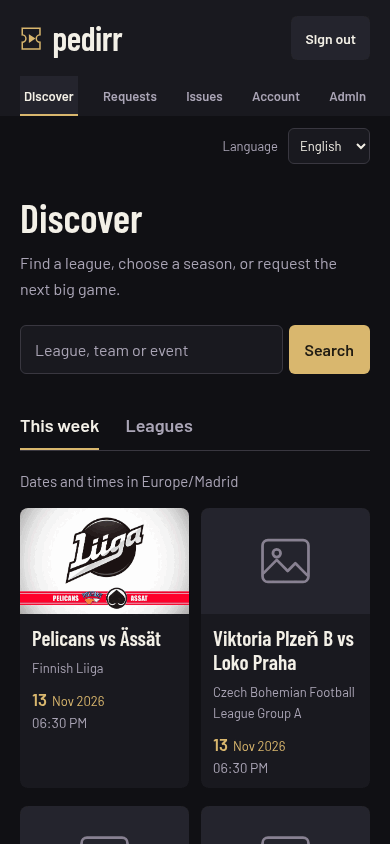
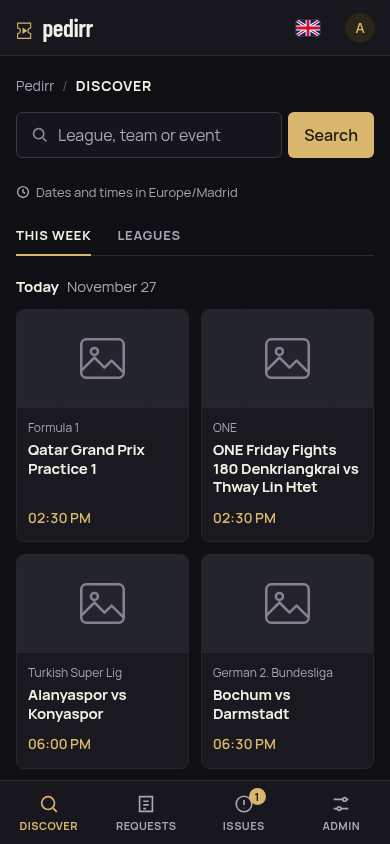
docs: retake the README screenshots with example data
Example accounts, requests and a reseller over real Sportarr Hub catalog
data, and two new screens: notifications by channel and a reseller's
panel.

Claude-Session: https://claude.ai/code/session_015qBK55CsyoFMVbYwaTNckd

diff --git a/README.md b/README.md
@@ -39,14 +39,15 @@
 
 ## Screenshots
 
-|                                                                                                                           |                                                                                          |
-| ------------------------------------------------------------------------------------------------------------------------- | ---------------------------------------------------------------------------------------- |
-| ![Sign in](docs/screenshots/sign-in.png) Sign in                                                                          | ![A league with its seasons](docs/screenshots/league.png) League and seasons             |
-| ![Choosing the parts of a fight card](docs/screenshots/parts-dialog.png) Choosing the parts of a fight card               | ![Requests and their status](docs/screenshots/requests.png) Requests and their status    |
-| ![A request with parts awaiting review](docs/screenshots/request-parts.png) Parts awaiting review, and who asked for them | ![An available request](docs/screenshots/request-available.png) A request in the library |
-| ![User administration](docs/screenshots/admin-users.png) User administration                                              | ![Discover on a phone](docs/screenshots/discover-mobile.png) On a phone                  |
+|                                                                                                                           |                                                                                                |
+| ------------------------------------------------------------------------------------------------------------------------- | ---------------------------------------------------------------------------------------------- |
+| ![Sign in](docs/screenshots/sign-in.png) Sign in                                                                          | ![A league with its seasons](docs/screenshots/league.png) League and seasons                   |
+| ![Choosing the parts of a fight card](docs/screenshots/parts-dialog.png) Choosing the parts of a fight card               | ![Requests and their status](docs/screenshots/requests.png) Requests and their status          |
+| ![A request with parts awaiting review](docs/screenshots/request-parts.png) Parts awaiting review, and who asked for them | ![An available request](docs/screenshots/request-available.png) A request in the library       |
+| ![User administration](docs/screenshots/admin-users.png) User administration                                              | ![Discover on a phone](docs/screenshots/discover-mobile.png) On a phone                        |
+| ![Notifications by channel](docs/screenshots/notifications.png) Notifications by channel                                  | ![A reseller's panel](docs/screenshots/reseller-panel.png) A reseller's panel with its clients |
 
-Screenshots come from a real installation; email addresses are replaced with example ones.
+Screenshots use example accounts, requests and resellers with real Sportarr Hub catalog data: leagues, events, dates and artwork. Events without artwork in Hub show a placeholder.
 
 ## Quick start
 

diff --git a/CHANGELOG.md b/CHANGELOG.md
@@ -4,6 +4,8 @@ All notable changes are recorded here. Versions follow [Semantic Versioning](htt
 
 ## Unreleased
 
+- The page has a favicon: the brand mark, also as an Apple touch icon.
+- New README screenshots with example accounts and real Sportarr Hub catalog data, including notifications and a reseller's panel.
 - Passwords need at least 8 characters instead of 12, everywhere: the first administrator, sign-up, password changes, new users, resellers and clients. Existing passwords keep working.
 
 ## 2.1.0 - 2026-11-27
